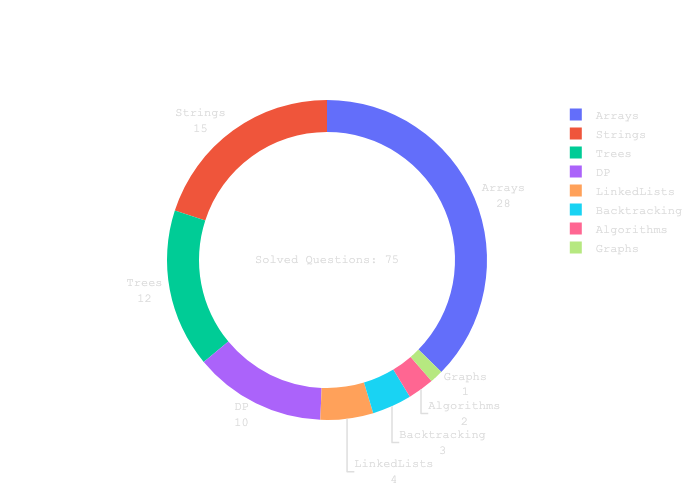
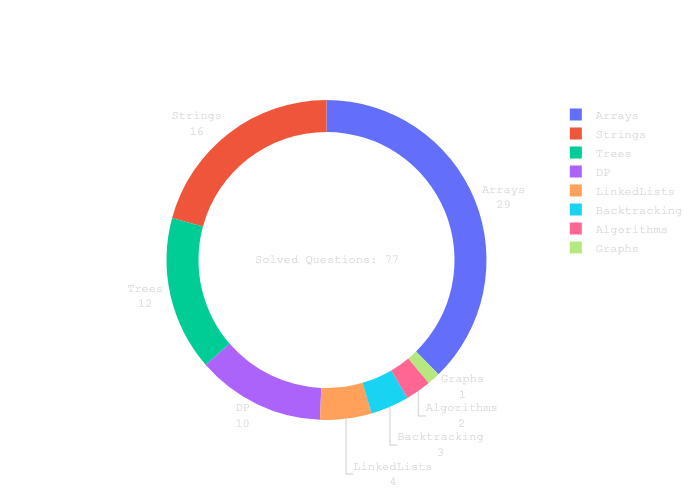
max prod subarray

diff --git a/Strings/suggestedProducts.py b/Strings/suggestedProducts.py
@@ -1,0 +1,43 @@
+from typing import List
+from utils.Trie import Trie
+
+
+def suggestedProducts(products: List[str], searchWord: str) -> List[List[str]]:
+    res = []
+    trie = Trie()
+
+    products.sort()
+    for product in products:
+        trie.insertWord(product)
+
+    prefix = ""
+    for c in searchWord:
+        prefix += c
+        suggestions = []
+        collectWords(trie, prefix, suggestions)
+        res.append(suggestions)
+
+    return res
+
+
+def collectWords(trie, prefix, suggestions):
+    def dfs(node, path):
+        if len(suggestions) == 3:
+            return
+        if node.word:
+            suggestions.append(path)
+        for char in sorted(node.children):
+            dfs(node.children[char], path + char)
+
+    cur = trie.root
+    for c in prefix:
+        if c not in cur.children:
+            return
+        cur = cur.children[c]
+
+    dfs(cur, prefix)
+
+
+print(
+    suggestedProducts(["mobile", "mouse", "moneypot", "monitor", "mousepad"], "mouse")
+)

diff --git a/utils/Trie.py b/utils/Trie.py
@@ -1,0 +1,34 @@
+class TrieNode:
+    def __init__(self) -> None:
+        self.children = {}
+        self.word = False
+
+
+class Trie:
+    def __init__(self) -> None:
+        self.root = TrieNode()
+
+    def insertWord(self, word):
+        cur = self.root
+        for c in word:
+            if c not in cur.children:
+                cur.children[c] = TrieNode()
+            cur = cur.children[c]
+        cur.word = True
+
+    def search(self, word):
+        cur = self.root
+        for c in word:
+            if c not in cur.children:
+                return False
+            cur = cur.children[c]
+        return cur.word
+
+    def startsWith(self, prefix):
+        cur = self.root
+        for c in prefix:
+            if c in cur.children:
+                cur = cur.children[c]
+            else:
+                return False
+        return True

diff --git a/Arrays/maxProductSubarray.py b/Arrays/maxProductSubarray.py
@@ -1,0 +1,21 @@
+from typing import List
+
+
+def maxProduct(nums: List[int]) -> int:
+    mx = -(10**10)
+    prod = 1
+    for i in nums:
+        prod *= i
+        mx = max(prod, mx)
+        if prod == 0:
+            prod = 1
+    prod = 1
+    for i in nums[::-1]:
+        prod *= i
+        mx = max(prod, mx)
+        if prod == 0:
+            prod = 1
+    return mx
+
+
+print(maxProduct([2, 3, -2, 4]))
